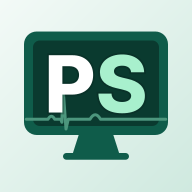
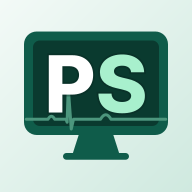
Icono: onda P a 30 unidades del QRS y T como estaba
Se ajusta el segmento PR del latido del icono de 44 a 30 unidades. La T
vuelve a su posición original. Se regeneran los PNG de la web y los
mipmap de Android.

Claude-Session: https://claude.ai/code/session_01R6CL9Y27hc3y3V93YZZEj1

Changed region(s): [[0.3125, 0.4688, 0.4062, 0.6875], [0.4688, 0.5625, 0.5938, 0.6562]]

diff --git a/propuestas/icono_ps_monitor.html b/propuestas/icono_ps_monitor.html
@@ -6,7 +6,7 @@
 <p class="sub">Maqueta sin aplicar. Cinco propuestas con los colores de la nueva imagen (verde de la cabecera, menta y el trazo del latido). Cada una se ve como icono cuadrado redondeado (iPhone/iPad), recortado en círculo (Android) y a tamaño pequeño de pantalla de inicio.</p>
 <div class="grid"><section class="card"><h2>A · Monitor de fondo, latido detrás de las letras</h2><div class="row"><div class="ic sq"><svg viewBox="0 0 512 512" xmlns="http://www.w3.org/2000/svg"><defs><linearGradient id="gA" x1="0" y1="0" x2="1" y2="1"><stop offset="0" stop-color="#168066"/><stop offset="1" stop-color="#0a3a2f"/></linearGradient><filter id="bA" x="-20%" y="-20%" width="140%" height="140%"><feGaussianBlur stdDeviation="6"/></filter></defs><rect width="512" height="512" fill="url(#gA)"/><rect x="64" y="84" width="384" height="276" rx="34" fill="#0a2f27" stroke="#a8f0cd" stroke-opacity=".35" stroke-width="10"/><path d="M90 112 V332" stroke="#a8f0cd" stroke-opacity=".07" stroke-width="2"/><path d="M150 112 V332" stroke="#a8f0cd" stroke-opacity=".07" stroke-width="2"/><path d="M210 112 V332" stroke="#a8f0cd" stroke-opacity=".07" stroke-width="2"/><path d="M270 112 V332" stroke="#a8f0cd" stroke-opacity=".07" stroke-width="2"/><path d="M330 112 V332" stroke="#a8f0cd" stroke-opacity=".07" stroke-width="2"/><path d="M390 112 V332" stroke="#a8f0cd" stroke-opacity=".07" stroke-width="2"/><path d="M92 138 H420" stroke="#a8f0cd" stroke-opacity=".07" stroke-width="2"/><path d="M92 186 H420" stroke="#a8f0cd" stroke-opacity=".07" stroke-width="2"/><path d="M92 234 H420" stroke="#a8f0cd" stroke-opacity=".07" stroke-width="2"/><path d="M92 282 H420" stroke="#a8f0cd" stroke-opacity=".07" stroke-width="2"/>
 <path d="M214 360 h84 l16 50 h-116z" fill="#0a2f27" stroke="#a8f0cd" stroke-opacity=".35" stroke-width="10" stroke-linejoin="round"/>
-<rect x="168" y="408" width="176" height="16" rx="8" fill="#a8f0cd" fill-opacity=".35"/><path d="M70 318 H128 q9 -16 18 0 H162 l3 8 l3 -92 l8 110 l6 -26 H240 q14 -24 28 0 H442" fill="none" stroke="#4c967d" stroke-width="9" stroke-linecap="round" stroke-linejoin="round"/><text x="256" y="312" text-anchor="middle" font-family="Inter,system-ui,-apple-system,Segoe UI,Roboto,sans-serif" font-weight="800" font-size="250" letter-spacing="-8" stroke="#06241d" stroke-opacity=".35" stroke-width="10" paint-order="stroke" ><tspan fill="#ffffff">P</tspan><tspan fill="#a8f0cd">S</tspan></text></svg></div><div class="ic ci"><svg viewBox="0 0 512 512" xmlns="http://www.w3.org/2000/svg"><defs><linearGradient id="gA" x1="0" y1="0" x2="1" y2="1"><stop offset="0" stop-color="#168066"/><stop offset="1" stop-color="#0a3a2f"/></linearGradient><filter id="bA" x="-20%" y="-20%" width="140%" height="140%"><feGaussianBlur stdDeviation="6"/></filter></defs><rect width="512" height="512" fill="url(#gA)"/><rect x="64" y="84" width="384" height="276" rx="34" fill="#0a2f27" stroke="#a8f0cd" stroke-opacity=".35" stroke-width="10"/><path d="M90 112 V332" stroke="#a8f0cd" stroke-opacity=".07" stroke-width="2"/><path d="M150 112 V332" stroke="#a8f0cd" stroke-opacity=".07" stroke-width="2"/><path d="M210 112 V332" stroke="#a8f0cd" stroke-opacity=".07" stroke-width="2"/><path d="M270 112 V332" stroke="#a8f0cd" stroke-opacity=".07" stroke-width="2"/><path d="M330 112 V332" stroke="#a8f0cd" stroke-opacity=".07" stroke-width="2"/><path d="M390 112 V332" stroke="#a8f0cd" stroke-opacity=".07" stroke-width="2"/><path d="M92 138 H420" stroke="#a8f0cd" stroke-opacity=".07" stroke-width="2"/><path d="M92 186 H420" stroke="#a8f0cd" stroke-opacity=".07" stroke-width="2"/><path d="M92 234 H420" stroke="#a8f0cd" stroke-opacity=".07" stroke-width="2"/><path d="M92 282 H420" stroke="#a8f0cd" stroke-opacity=".07" stroke-width="2"/>
+<rect x="168" y="408" width="176" height="16" rx="8" fill="#a8f0cd" fill-opacity=".35"/><path d="M70 318 H128 q9 -16 18 0 H176 l3 8 l3 -92 l8 110 l6 -26 H268 q14 -24 28 0 H442" fill="none" stroke="#4c967d" stroke-width="9" stroke-linecap="round" stroke-linejoin="round"/><text x="256" y="312" text-anchor="middle" font-family="Inter,system-ui,-apple-system,Segoe UI,Roboto,sans-serif" font-weight="800" font-size="250" letter-spacing="-8" stroke="#06241d" stroke-opacity=".35" stroke-width="10" paint-order="stroke" ><tspan fill="#ffffff">P</tspan><tspan fill="#a8f0cd">S</tspan></text></svg></div><div class="ic ci"><svg viewBox="0 0 512 512" xmlns="http://www.w3.org/2000/svg"><defs><linearGradient id="gA" x1="0" y1="0" x2="1" y2="1"><stop offset="0" stop-color="#168066"/><stop offset="1" stop-color="#0a3a2f"/></linearGradient><filter id="bA" x="-20%" y="-20%" width="140%" height="140%"><feGaussianBlur stdDeviation="6"/></filter></defs><rect width="512" height="512" fill="url(#gA)"/><rect x="64" y="84" width="384" height="276" rx="34" fill="#0a2f27" stroke="#a8f0cd" stroke-opacity=".35" stroke-width="10"/><path d="M90 112 V332" stroke="#a8f0cd" stroke-opacity=".07" stroke-width="2"/><path d="M150 112 V332" stroke="#a8f0cd" stroke-opacity=".07" stroke-width="2"/><path d="M210 112 V332" stroke="#a8f0cd" stroke-opacity=".07" stroke-width="2"/><path d="M270 112 V332" stroke="#a8f0cd" stroke-opacity=".07" stroke-width="2"/><path d="M330 112 V332" stroke="#a8f0cd" stroke-opacity=".07" stroke-width="2"/><path d="M390 112 V332" stroke="#a8f0cd" stroke-opacity=".07" stroke-width="2"/><path d="M92 138 H420" stroke="#a8f0cd" stroke-opacity=".07" stroke-width="2"/><path d="M92 186 H420" stroke="#a8f0cd" stroke-opacity=".07" stroke-width="2"/><path d="M92 234 H420" stroke="#a8f0cd" stroke-opacity=".07" stroke-width="2"/><path d="M92 282 H420" stroke="#a8f0cd" stroke-opacity=".07" stroke-width="2"/>
 <path d="M214 360 h84 l16 50 h-116z" fill="#0a2f27" stroke="#a8f0cd" stroke-opacity=".35" stroke-width="10" stroke-linejoin="round"/>
 <rect x="168" y="408" width="176" height="16" rx="8" fill="#a8f0cd" fill-opacity=".35"/><path d="M70 318 H128 q9 -16 18 0 H188 l8 12 l14 -92 l12 118 l9 -38 H262 q12 -22 24 0 H442" fill="none" stroke="#4c967d" stroke-width="9" stroke-linecap="round" stroke-linejoin="round"/><text x="256" y="312" text-anchor="middle" font-family="Inter,system-ui,-apple-system,Segoe UI,Roboto,sans-serif" font-weight="800" font-size="250" letter-spacing="-8" stroke="#06241d" stroke-opacity=".35" stroke-width="10" paint-order="stroke" ><tspan fill="#ffffff">P</tspan><tspan fill="#a8f0cd">S</tspan></text></svg></div><div class="sm"><div class="ic sq s48"><svg viewBox="0 0 512 512" xmlns="http://www.w3.org/2000/svg"><defs><linearGradient id="gA" x1="0" y1="0" x2="1" y2="1"><stop offset="0" stop-color="#168066"/><stop offset="1" stop-color="#0a3a2f"/></linearGradient><filter id="bA" x="-20%" y="-20%" width="140%" height="140%"><feGaussianBlur stdDeviation="6"/></filter></defs><rect width="512" height="512" fill="url(#gA)"/><rect x="64" y="84" width="384" height="276" rx="34" fill="#0a2f27" stroke="#a8f0cd" stroke-opacity=".35" stroke-width="10"/><path d="M90 112 V332" stroke="#a8f0cd" stroke-opacity=".07" stroke-width="2"/><path d="M150 112 V332" stroke="#a8f0cd" stroke-opacity=".07" stroke-width="2"/><path d="M210 112 V332" stroke="#a8f0cd" stroke-opacity=".07" stroke-width="2"/><path d="M270 112 V332" stroke="#a8f0cd" stroke-opacity=".07" stroke-width="2"/><path d="M330 112 V332" stroke="#a8f0cd" stroke-opacity=".07" stroke-width="2"/><path d="M390 112 V332" stroke="#a8f0cd" stroke-opacity=".07" stroke-width="2"/><path d="M92 138 H420" stroke="#a8f0cd" stroke-opacity=".07" stroke-width="2"/><path d="M92 186 H420" stroke="#a8f0cd" stroke-opacity=".07" stroke-width="2"/><path d="M92 234 H420" stroke="#a8f0cd" stroke-opacity=".07" stroke-width="2"/><path d="M92 282 H420" stroke="#a8f0cd" stroke-opacity=".07" stroke-width="2"/>
 <path d="M214 360 h84 l16 50 h-116z" fill="#0a2f27" stroke="#a8f0cd" stroke-opacity=".35" stroke-width="10" stroke-linejoin="round"/>
